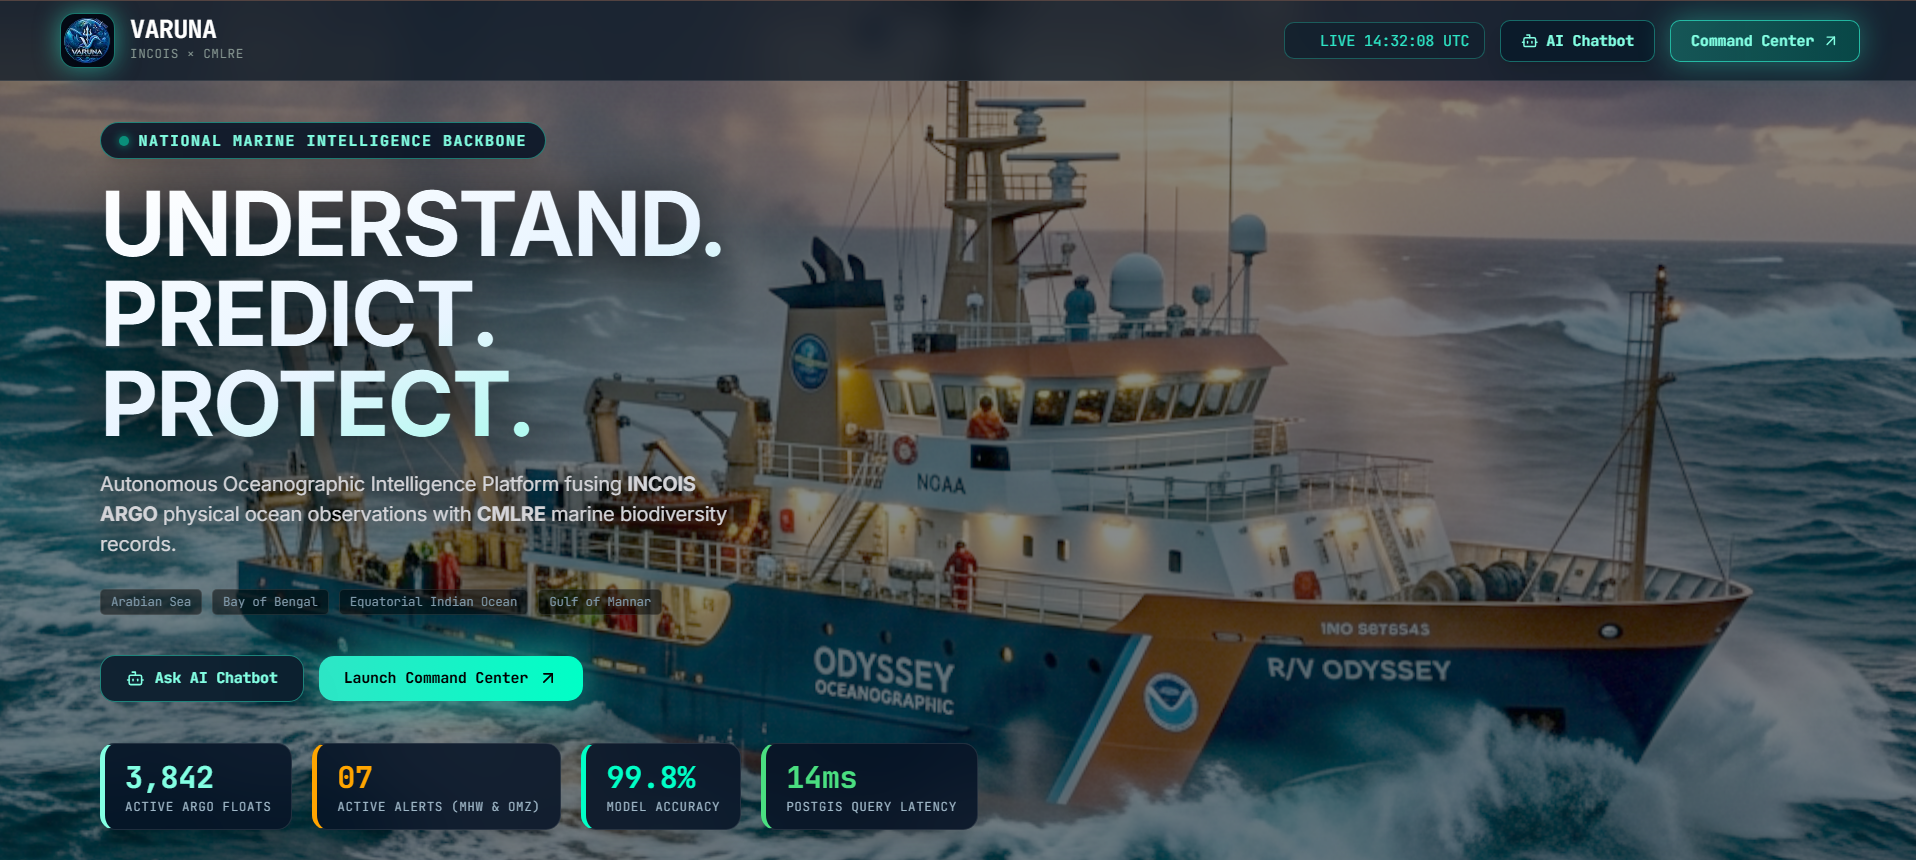
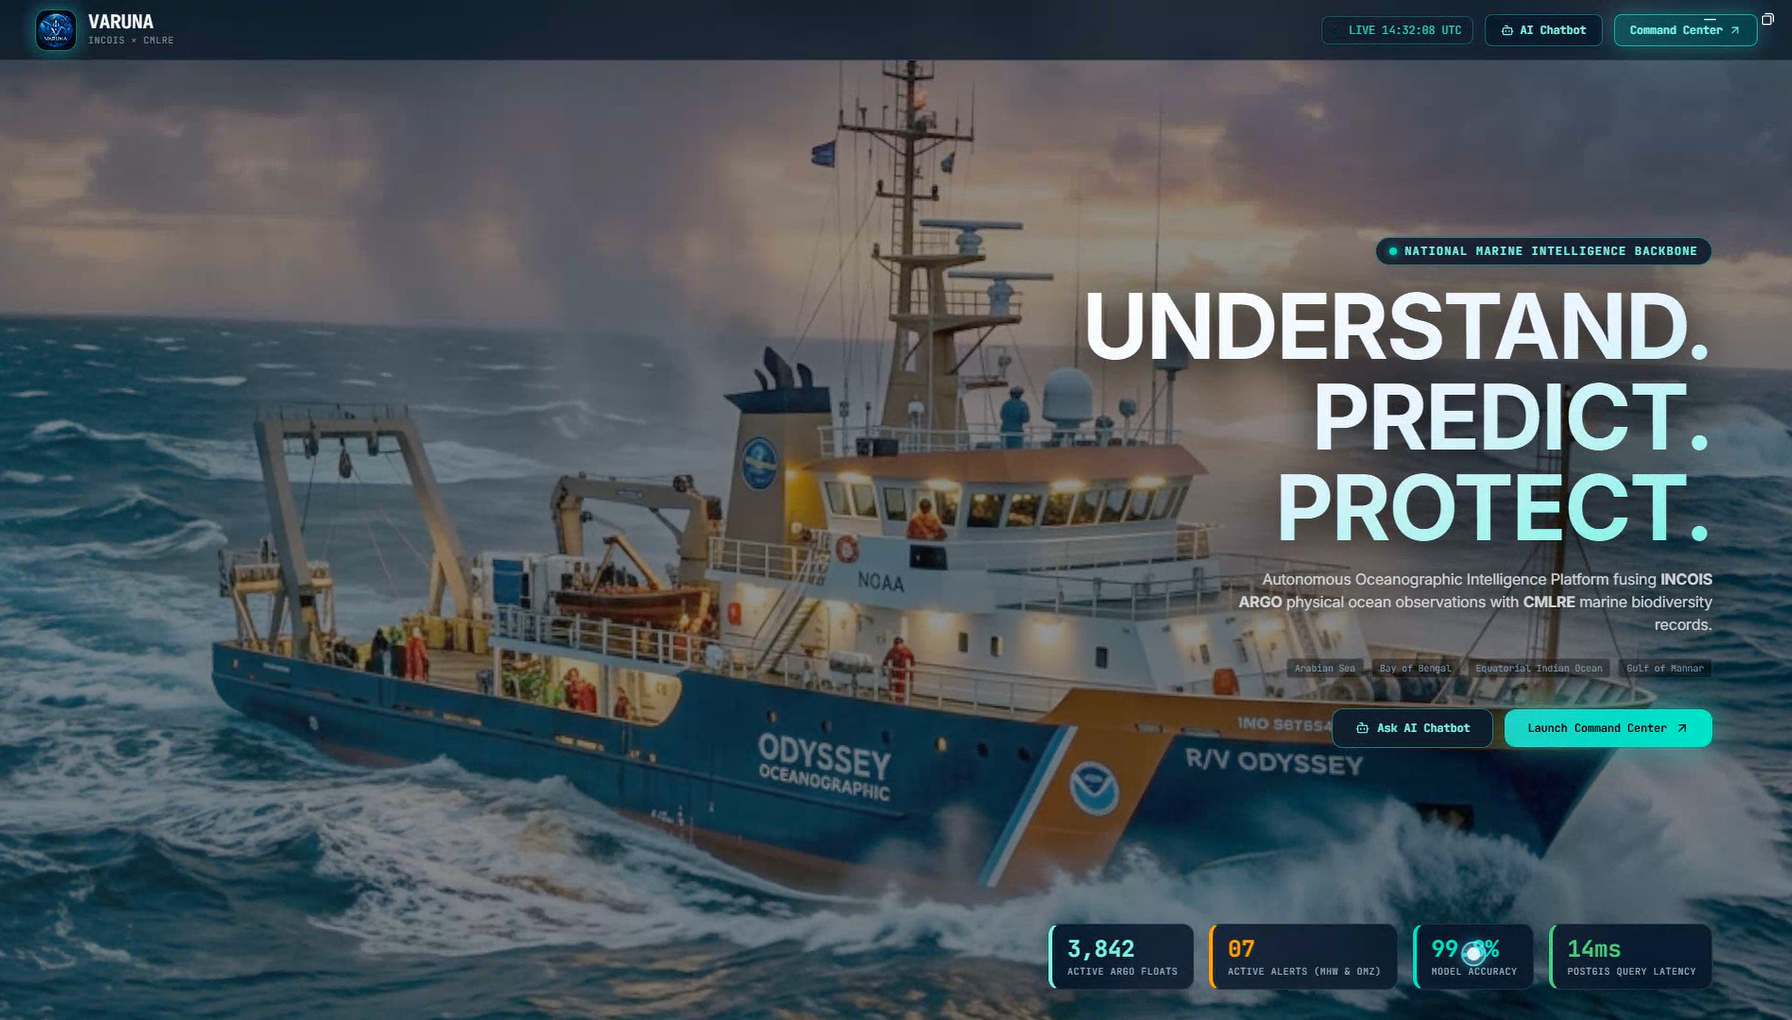
Add Varuna project screenshots

diff --git a/netal-portfolio/src/components/Projects.jsx b/netal-portfolio/src/components/Projects.jsx
@@ -163,7 +163,7 @@ export default function Projects() {
         ]}
         appLink={null}
         ghLink="https://github.com/Aryan-lomte05/Varuna"
-        carouselImages={['/varuna1.png']}
+        carouselImages={['/varuna1.png', '/varuna2.png', '/varuna3.png', '/varuna4.png', '/varuna5.png']}
         placeholderCount={0}
         accentColor="#0D0D0D"
         avatar={{ mark: 'VR', bg: '#E0F7FA' }}
